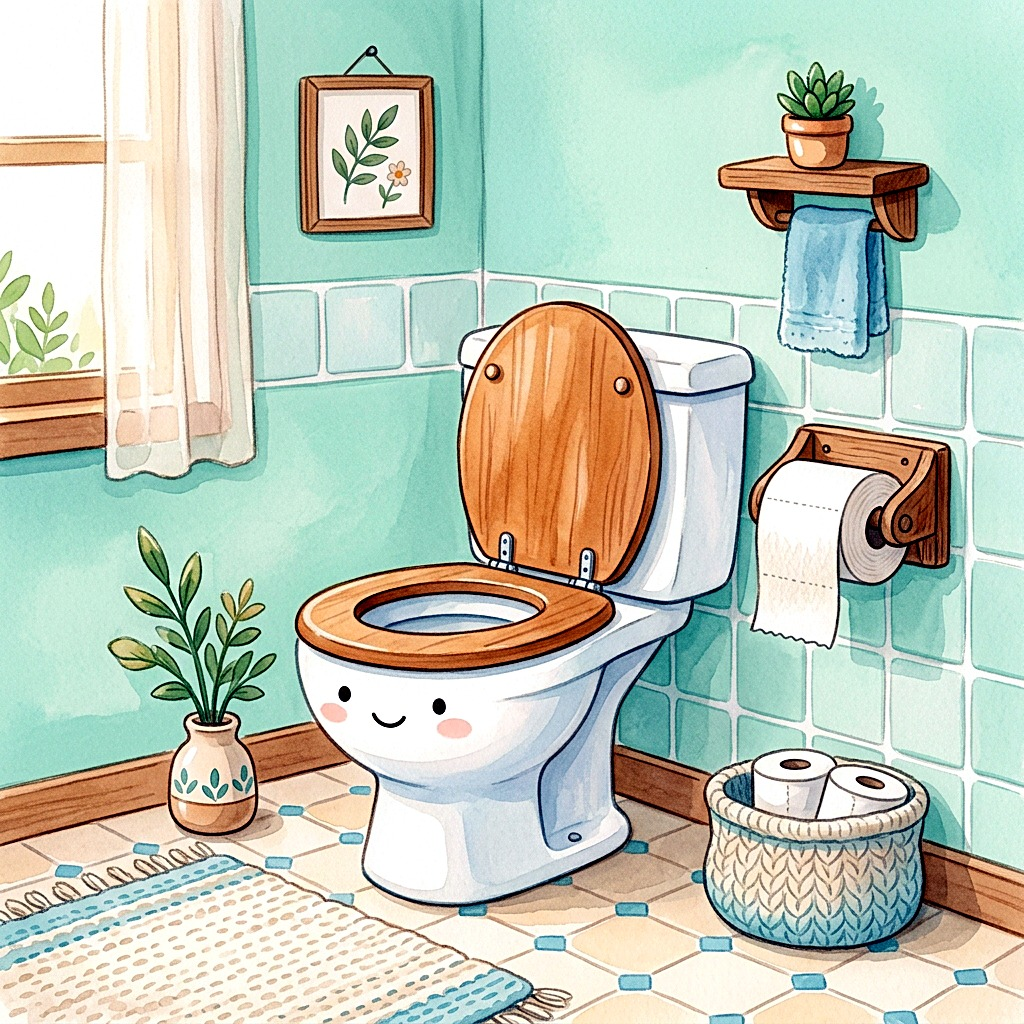
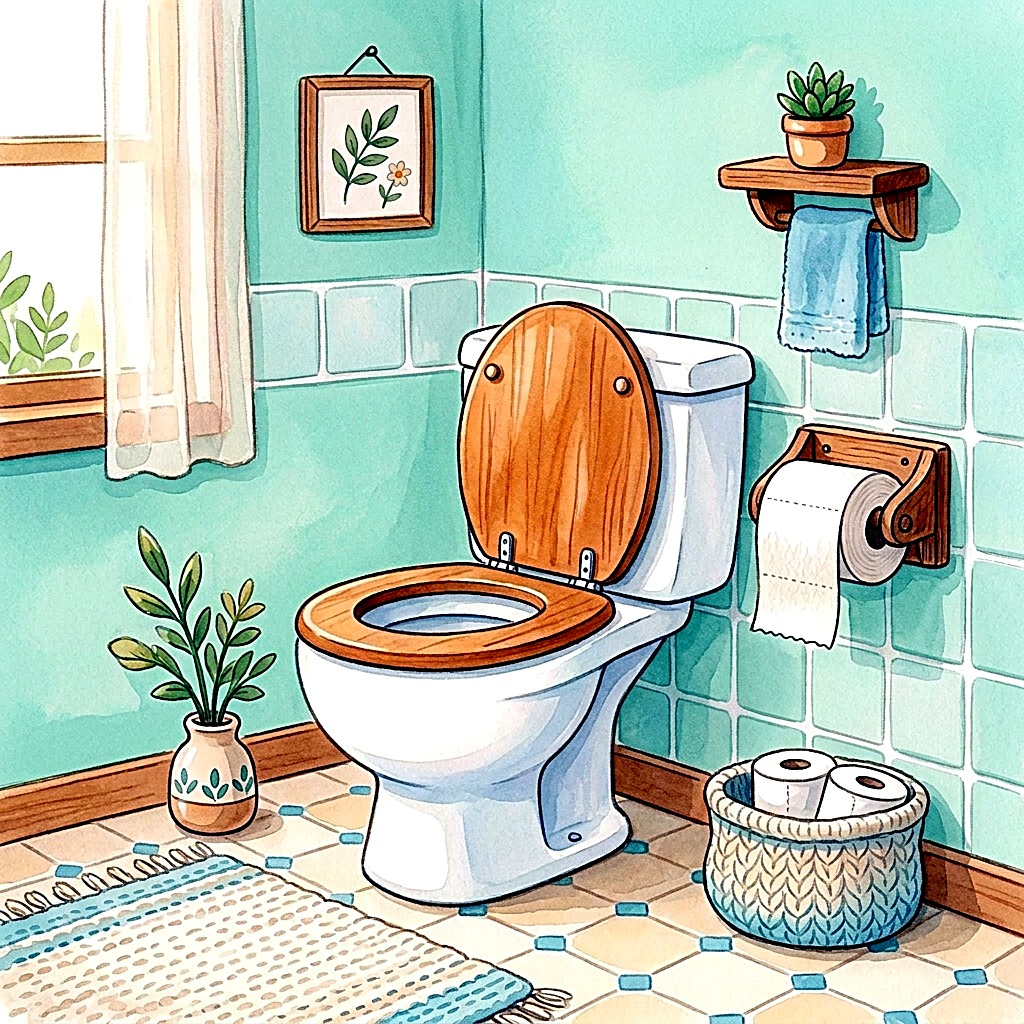
Toilet picture without a face: the same bathroom, a plain real toilet
Generated by agy from the previous picture; Lens: no exact matches on the raw and final file.

diff --git a/output/sl-primer.html b/output/sl-primer.html
@@ -256,11 +256,11 @@
         </div>
         <div class="rt-check"></div>
       </div>
-      <div class="rt-pic pic-right" style="--step: #EA580C; --bg: #C4E8D5; --ink: #8E3D28; grid-row: 4 / span 4;">
+      <div class="rt-pic pic-right" style="--step: #EA580C; --bg: #BCE9D5; --ink: #8E3D28; grid-row: 4 / span 4;">
         <img src="../images/toilet.jpg" alt="Na stranišče" />
         <div class="rt-num">2</div>
       </div>
-      <div class="rt-card card-right" style="--step: #EA580C; --bg: #C4E8D5; --ink: #8E3D28; grid-row: 5 / span 2;">
+      <div class="rt-card card-right" style="--step: #EA580C; --bg: #BCE9D5; --ink: #8E3D28; grid-row: 5 / span 2;">
         <div class="rt-text">
           <div class="rt-label">NA STRANIŠČE</div>
           <div class="rt-time"><span class="blank"></span>:<span class="blank"></span></div>
@@ -329,11 +329,11 @@
   <div class="page-a4 rt-page" style="background: linear-gradient(180deg, #FFF6CC 0%, #FFE7B3 30%, #DDF3E4 65%, #CDEBFA 100%);">
     <div class="rt-grid" style="grid-template-rows: 14mm repeat(14, minmax(0, 1fr));">
       <div class="rt-header"><div class="rt-title">VEČERJA</div></div>
-      <div class="rt-pic pic-left" style="--step: #16A34A; --bg: #D4EFE3; --ink: #1A664A; grid-row: 2 / span 4;">
+      <div class="rt-pic pic-left" style="--step: #16A34A; --bg: #D0F1E6; --ink: #1A664A; grid-row: 2 / span 4;">
         <img src="../images/toilet.jpg" alt="Na stranišče" />
         <div class="rt-num">1</div>
       </div>
-      <div class="rt-card card-left" style="--step: #16A34A; --bg: #D4EFE3; --ink: #1A664A; grid-row: 3 / span 2;">
+      <div class="rt-card card-left" style="--step: #16A34A; --bg: #D0F1E6; --ink: #1A664A; grid-row: 3 / span 2;">
         <div class="rt-text">
           <div class="rt-label">NA STRANIŠČE</div>
           <div class="rt-time"><span class="blank"></span>:<span class="blank"></span></div>
@@ -458,11 +458,11 @@
         </div>
         <div class="rt-check"></div>
       </div>
-      <div class="rt-pic pic-right" style="--step: #1D4ED8; --bg: #C4E8D5; --ink: #1D3799; grid-row: 12 / span 4;">
+      <div class="rt-pic pic-right" style="--step: #1D4ED8; --bg: #BCE9D5; --ink: #1D3799; grid-row: 12 / span 4;">
         <img src="../images/toilet.jpg" alt="Na stranišče" />
         <div class="rt-num">6</div>
       </div>
-      <div class="rt-card card-right" style="--step: #1D4ED8; --bg: #C4E8D5; --ink: #1D3799; grid-row: 13 / span 2;">
+      <div class="rt-card card-right" style="--step: #1D4ED8; --bg: #BCE9D5; --ink: #1D3799; grid-row: 13 / span 2;">
         <div class="rt-text">
           <div class="rt-label">NA STRANIŠČE</div>
           <div class="rt-time"><span class="blank"></span>:<span class="blank"></span></div>

diff --git a/output/en-example.html b/output/en-example.html
@@ -256,11 +256,11 @@
         </div>
         <div class="rt-check"></div>
       </div>
-      <div class="rt-pic pic-right" style="--step: #EA580C; --bg: #C4E8D5; --ink: #8E3D28; grid-row: 4 / span 4;">
+      <div class="rt-pic pic-right" style="--step: #EA580C; --bg: #BCE9D5; --ink: #8E3D28; grid-row: 4 / span 4;">
         <img src="../images/toilet.jpg" alt="Use the toilet" />
         <div class="rt-num">2</div>
       </div>
-      <div class="rt-card card-right" style="--step: #EA580C; --bg: #C4E8D5; --ink: #8E3D28; grid-row: 5 / span 2;">
+      <div class="rt-card card-right" style="--step: #EA580C; --bg: #BCE9D5; --ink: #8E3D28; grid-row: 5 / span 2;">
         <div class="rt-text">
           <div class="rt-label">USE THE TOILET</div>
           <div class="rt-time"><span class="blank"></span>:<span class="blank"></span></div>
@@ -340,11 +340,11 @@
   <div class="page-a4 rt-page" style="background: linear-gradient(180deg, #FFF6CC 0%, #FFE7B3 30%, #DDF3E4 65%, #CDEBFA 100%);">
     <div class="rt-grid" style="grid-template-rows: 14mm repeat(14, minmax(0, 1fr));">
       <div class="rt-header"><div class="rt-title">DINNER</div></div>
-      <div class="rt-pic pic-left" style="--step: #16A34A; --bg: #D4EFE3; --ink: #1A664A; grid-row: 2 / span 4;">
+      <div class="rt-pic pic-left" style="--step: #16A34A; --bg: #D0F1E6; --ink: #1A664A; grid-row: 2 / span 4;">
         <img src="../images/toilet.jpg" alt="Use the toilet" />
         <div class="rt-num">1</div>
       </div>
-      <div class="rt-card card-left" style="--step: #16A34A; --bg: #D4EFE3; --ink: #1A664A; grid-row: 3 / span 2;">
+      <div class="rt-card card-left" style="--step: #16A34A; --bg: #D0F1E6; --ink: #1A664A; grid-row: 3 / span 2;">
         <div class="rt-text">
           <div class="rt-label">USE THE TOILET</div>
           <div class="rt-time"><span class="blank"></span>:<span class="blank"></span></div>
@@ -469,11 +469,11 @@
         </div>
         <div class="rt-check"></div>
       </div>
-      <div class="rt-pic pic-right" style="--step: #1D4ED8; --bg: #C4E8D5; --ink: #1D3799; grid-row: 12 / span 4;">
+      <div class="rt-pic pic-right" style="--step: #1D4ED8; --bg: #BCE9D5; --ink: #1D3799; grid-row: 12 / span 4;">
         <img src="../images/toilet.jpg" alt="Use the toilet" />
         <div class="rt-num">6</div>
       </div>
-      <div class="rt-card card-right" style="--step: #1D4ED8; --bg: #C4E8D5; --ink: #1D3799; grid-row: 13 / span 2;">
+      <div class="rt-card card-right" style="--step: #1D4ED8; --bg: #BCE9D5; --ink: #1D3799; grid-row: 13 / span 2;">
         <div class="rt-text">
           <div class="rt-label">USE THE TOILET</div>
           <div class="rt-time"><span class="blank"></span>:<span class="blank"></span></div>

diff --git a/output/sl-vsakdan.html b/output/sl-vsakdan.html
@@ -267,11 +267,11 @@
         </div>
         <div class="rt-check"></div>
       </div>
-      <div class="rt-pic pic-left" style="--step: #D946EF; --bg: #D4EFE3; --ink: #8533A5; grid-row: 6 / span 4;">
+      <div class="rt-pic pic-left" style="--step: #D946EF; --bg: #D0F1E6; --ink: #8533A5; grid-row: 6 / span 4;">
         <img src="../images/toilet.jpg" alt="Lulanje" />
         <div class="rt-num">3</div>
       </div>
-      <div class="rt-card card-left" style="--step: #D946EF; --bg: #D4EFE3; --ink: #8533A5; grid-row: 7 / span 2;">
+      <div class="rt-card card-left" style="--step: #D946EF; --bg: #D0F1E6; --ink: #8533A5; grid-row: 7 / span 2;">
         <div class="rt-text">
           <div class="rt-label">LULANJE</div>
           <div class="rt-time"><span class="blank"></span>:<span class="blank"></span></div>
@@ -340,11 +340,11 @@
   <div class="page-a4 rt-page" style="background: linear-gradient(180deg, #FFF6CC 0%, #FFE7B3 30%, #DDF3E4 65%, #CDEBFA 100%);">
     <div class="rt-grid" style="grid-template-rows: 14mm repeat(14, minmax(0, 1fr));">
       <div class="rt-header"><div class="rt-title">VEČERJA</div></div>
-      <div class="rt-pic pic-left" style="--step: #F59E0B; --bg: #D4EFE3; --ink: #7F562E; grid-row: 2 / span 4;">
+      <div class="rt-pic pic-left" style="--step: #F59E0B; --bg: #D0F1E6; --ink: #7F562E; grid-row: 2 / span 4;">
         <img src="../images/toilet.jpg" alt="Lulanje" />
         <div class="rt-num">1</div>
       </div>
-      <div class="rt-card card-left" style="--step: #F59E0B; --bg: #D4EFE3; --ink: #7F562E; grid-row: 3 / span 2;">
+      <div class="rt-card card-left" style="--step: #F59E0B; --bg: #D0F1E6; --ink: #7F562E; grid-row: 3 / span 2;">
         <div class="rt-text">
           <div class="rt-label">LULANJE</div>
           <div class="rt-time"><span class="blank"></span>:<span class="blank"></span></div>
@@ -469,11 +469,11 @@
         </div>
         <div class="rt-check"></div>
       </div>
-      <div class="rt-pic pic-right" style="--step: #3B82F6; --bg: #C4E8D5; --ink: #2E54A9; grid-row: 12 / span 4;">
+      <div class="rt-pic pic-right" style="--step: #3B82F6; --bg: #BCE9D5; --ink: #2E54A9; grid-row: 12 / span 4;">
         <img src="../images/toilet.jpg" alt="Lulanje" />
         <div class="rt-num">6</div>
       </div>
-      <div class="rt-card card-right" style="--step: #3B82F6; --bg: #C4E8D5; --ink: #2E54A9; grid-row: 13 / span 2;">
+      <div class="rt-card card-right" style="--step: #3B82F6; --bg: #BCE9D5; --ink: #2E54A9; grid-row: 13 / span 2;">
         <div class="rt-text">
           <div class="rt-label">LULANJE</div>
           <div class="rt-time"><span class="blank"></span>:<span class="blank"></span></div>

diff --git a/web/data.js b/web/data.js
@@ -408,7 +408,7 @@ window.SHEET_DATA = {
    }
   },
   "toilet": {
-   "title": "Friendly toilet in a cozy bathroom",
+   "title": "Plain toilet with a wooden seat in a cozy bathroom",
    "label": {
     "sl": "NA STRANIŠČE",
     "en": "USE THE TOILET"
@@ -884,6 +884,6 @@ window.SHEET_EDGES = {
   "sleep": ["#D5CDCA", "#DFDFE9"],
   "story": ["#D5CDCA", "#F5F1F3"],
   "tidy-toys": ["#F3DBC1", "#F9E8C3"],
-  "toilet": ["#D4EFE3", "#C4E8D5"],
+  "toilet": ["#D0F1E6", "#BCE9D5"],
   "wash-hands": ["#C8DDD2", "#FADFD7"],
 };

diff --git a/images/README.md b/images/README.md
@@ -20,5 +20,5 @@ Generated by `tools/build.py` from `images/<id>.json`; do not edit by hand. To a
 | <img src="sleep.jpg" width="120" alt="Teddy bear lying asleep in bed under a night sky"> | `sleep` | Teddy bear lying asleep in bed under a night sky | sl: spanj*, spat*, spi, zaspi*, lahko noc, v posteljo, pocitek<br>en: sleep*, go to bed, good night, lights out, nap | en-example: EVENING ROUTINE 8<br>sl-primer: VEČERNA RUTINA 8<br>sl-vsakdan: SPANJE 8 |
 | <img src="story.jpg" width="120" alt="Open storybook on a bed with a pop-up castle"> | `story` | Open storybook on a bed with a pop-up castle | sl: pravljic*, zgodb*, knjig*, beri*, branje, prebere*<br>en: story, stories, book*, read* | en-example: EVENING ROUTINE 7<br>sl-primer: VEČERNA RUTINA 7<br>sl-vsakdan: SPANJE 7 |
 | <img src="tidy-toys.jpg" width="120" alt="Teddy bear putting the last ball into a full toy chest"> | `tidy-toys` | Teddy bear putting the last ball into a full toy chest | sl: igrac*, igrack*, skrinj*<br>en: toys, tidy up, tidy*, clean up, put away toys | en-example: DINNER 6<br>sl-primer: VEČERJA 6<br>sl-vsakdan: VEČERJA 6 |
-| <img src="toilet.jpg" width="120" alt="Friendly toilet in a cozy bathroom"> | `toilet` | Friendly toilet in a cozy bathroom | sl: lula*, stranisc*, wc, kahlic*, kakanj*, kakat*, potreb*, kopalnic*<br>en: toilet, potty, pee, wee, bathroom, loo | en-example: MORNING ROUTINE 2<br>en-example: DINNER 1<br>en-example: EVENING ROUTINE 6<br>sl-primer: JUTRANJA RUTINA 2<br>sl-primer: VEČERJA 1<br>sl-primer: VEČERNA RUTINA 6<br>sl-vsakdan: JUTRANJA RUTINA 3<br>sl-vsakdan: VEČERJA 1<br>sl-vsakdan: SPANJE 6 |
+| <img src="toilet.jpg" width="120" alt="Plain toilet with a wooden seat in a cozy bathroom"> | `toilet` | Plain toilet with a wooden seat in a cozy bathroom | sl: lula*, stranisc*, wc, kahlic*, kakanj*, kakat*, potreb*, kopalnic*<br>en: toilet, potty, pee, wee, bathroom, loo | en-example: MORNING ROUTINE 2<br>en-example: DINNER 1<br>en-example: EVENING ROUTINE 6<br>sl-primer: JUTRANJA RUTINA 2<br>sl-primer: VEČERJA 1<br>sl-primer: VEČERNA RUTINA 6<br>sl-vsakdan: JUTRANJA RUTINA 3<br>sl-vsakdan: VEČERJA 1<br>sl-vsakdan: SPANJE 6 |
 | <img src="wash-hands.jpg" width="120" alt="Child&#x27;s hands washing under a tap with soap bubbles"> | `wash-hands` | Child's hands washing under a tap with soap bubbles | sl: roke, rok, umivanje rok, umij roke, milo<br>en: wash hands, hands, hand washing, handwashing, soap | en-example: MORNING ROUTINE 3<br>en-example: DINNER 2<br>sl-primer: JUTRANJA RUTINA 3<br>sl-primer: VEČERJA 2<br>sl-vsakdan: JUTRANJA RUTINA 4<br>sl-vsakdan: VEČERJA 2 |
